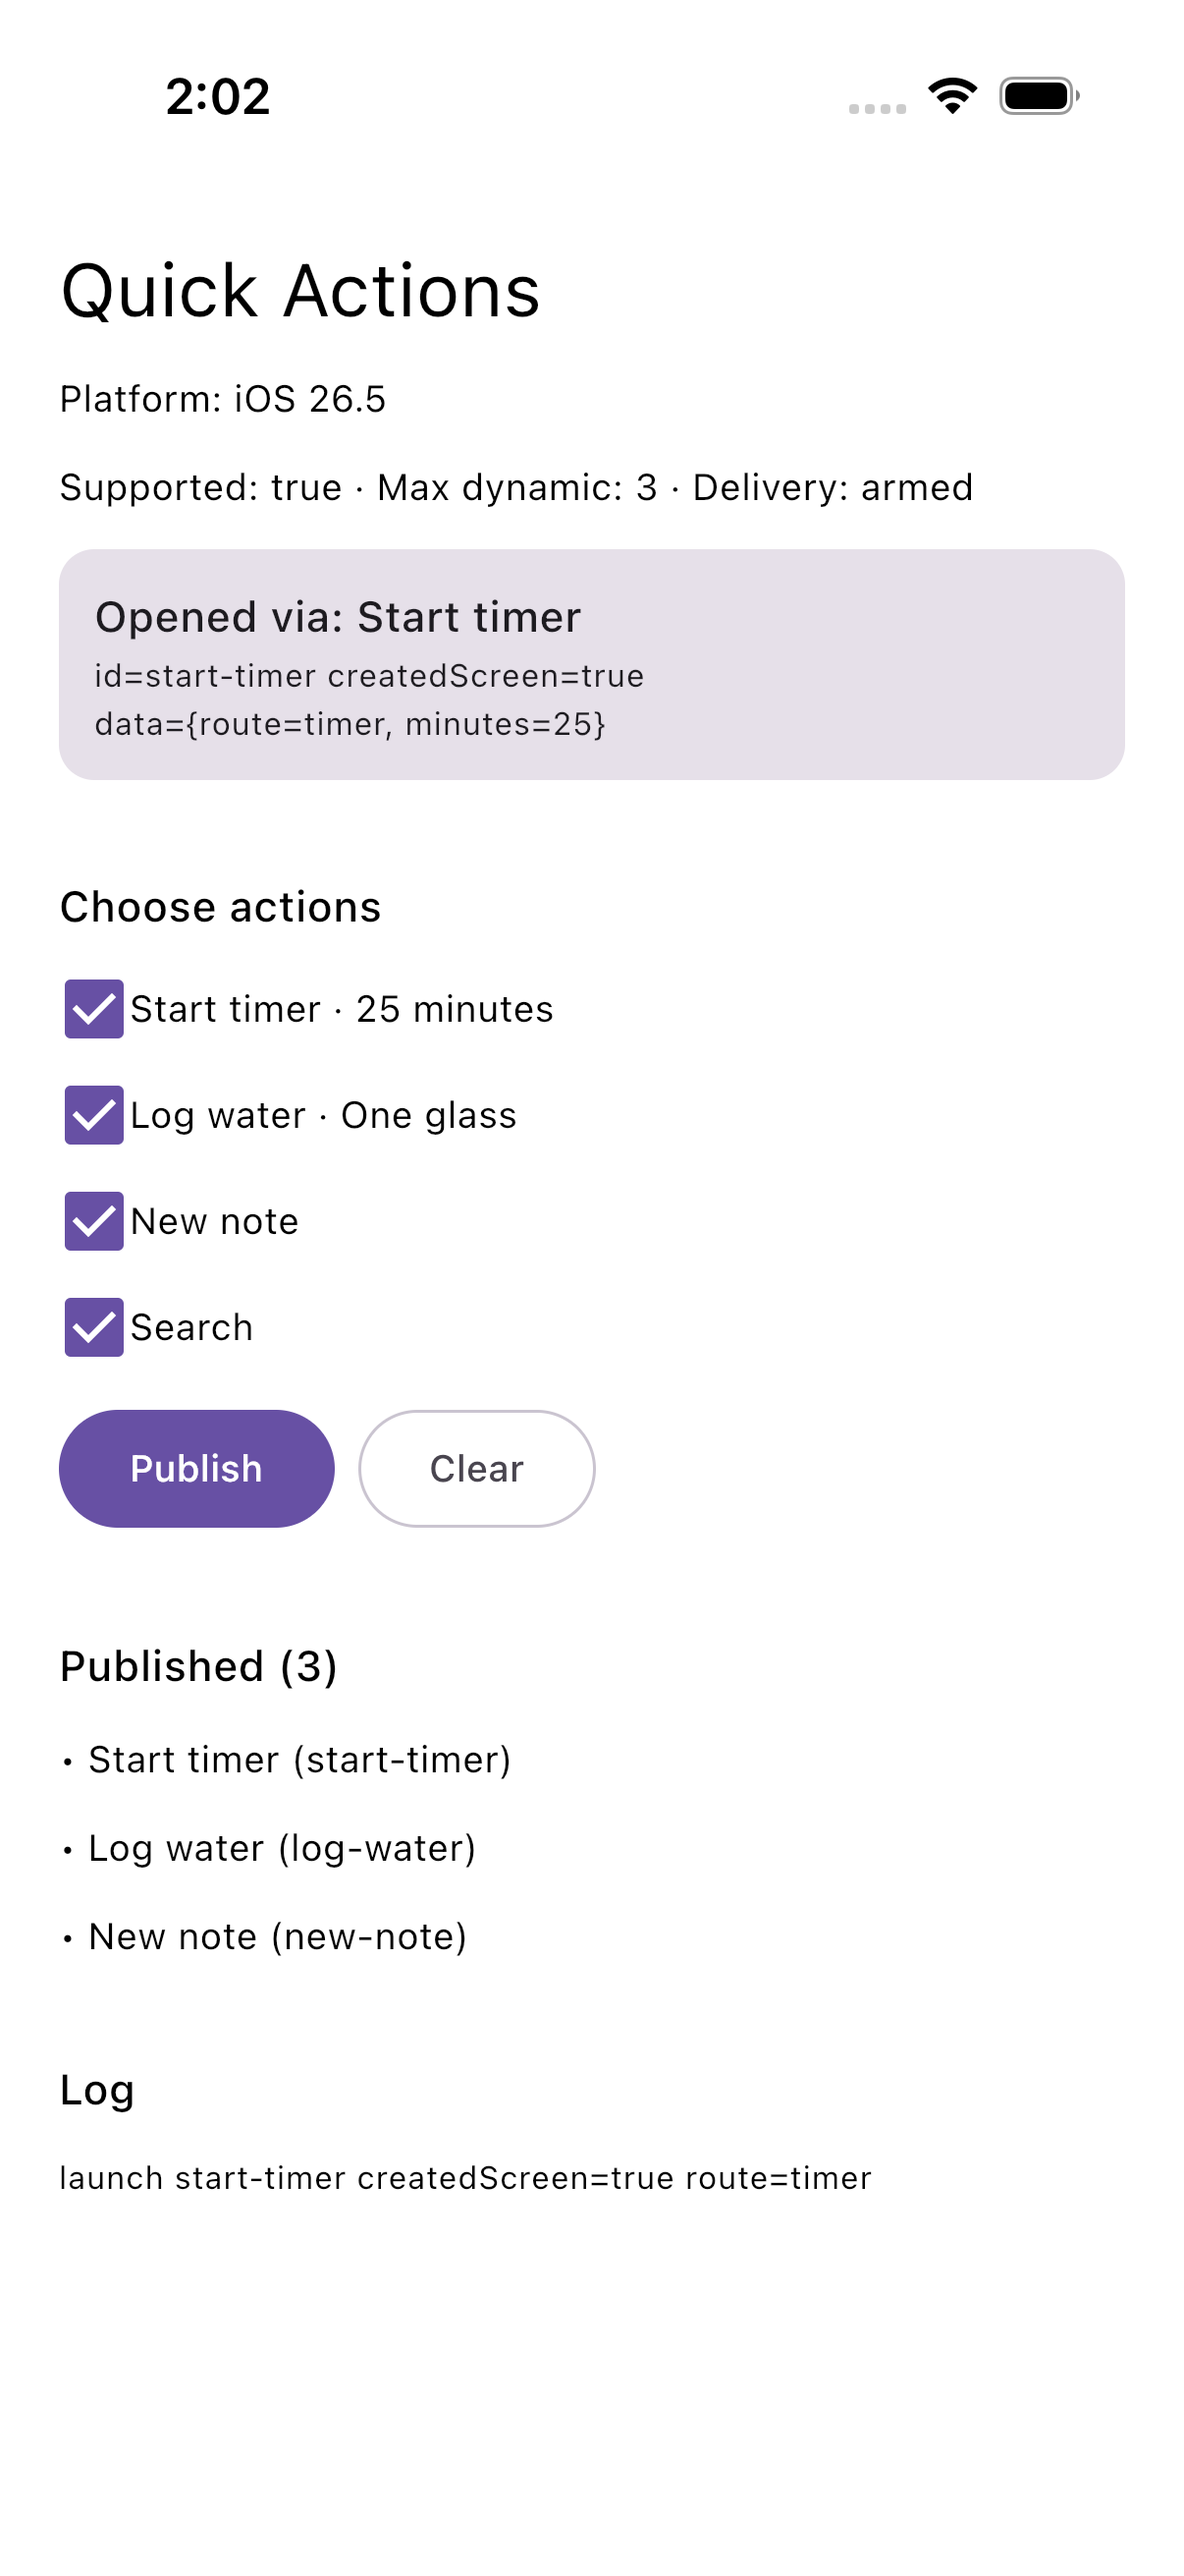
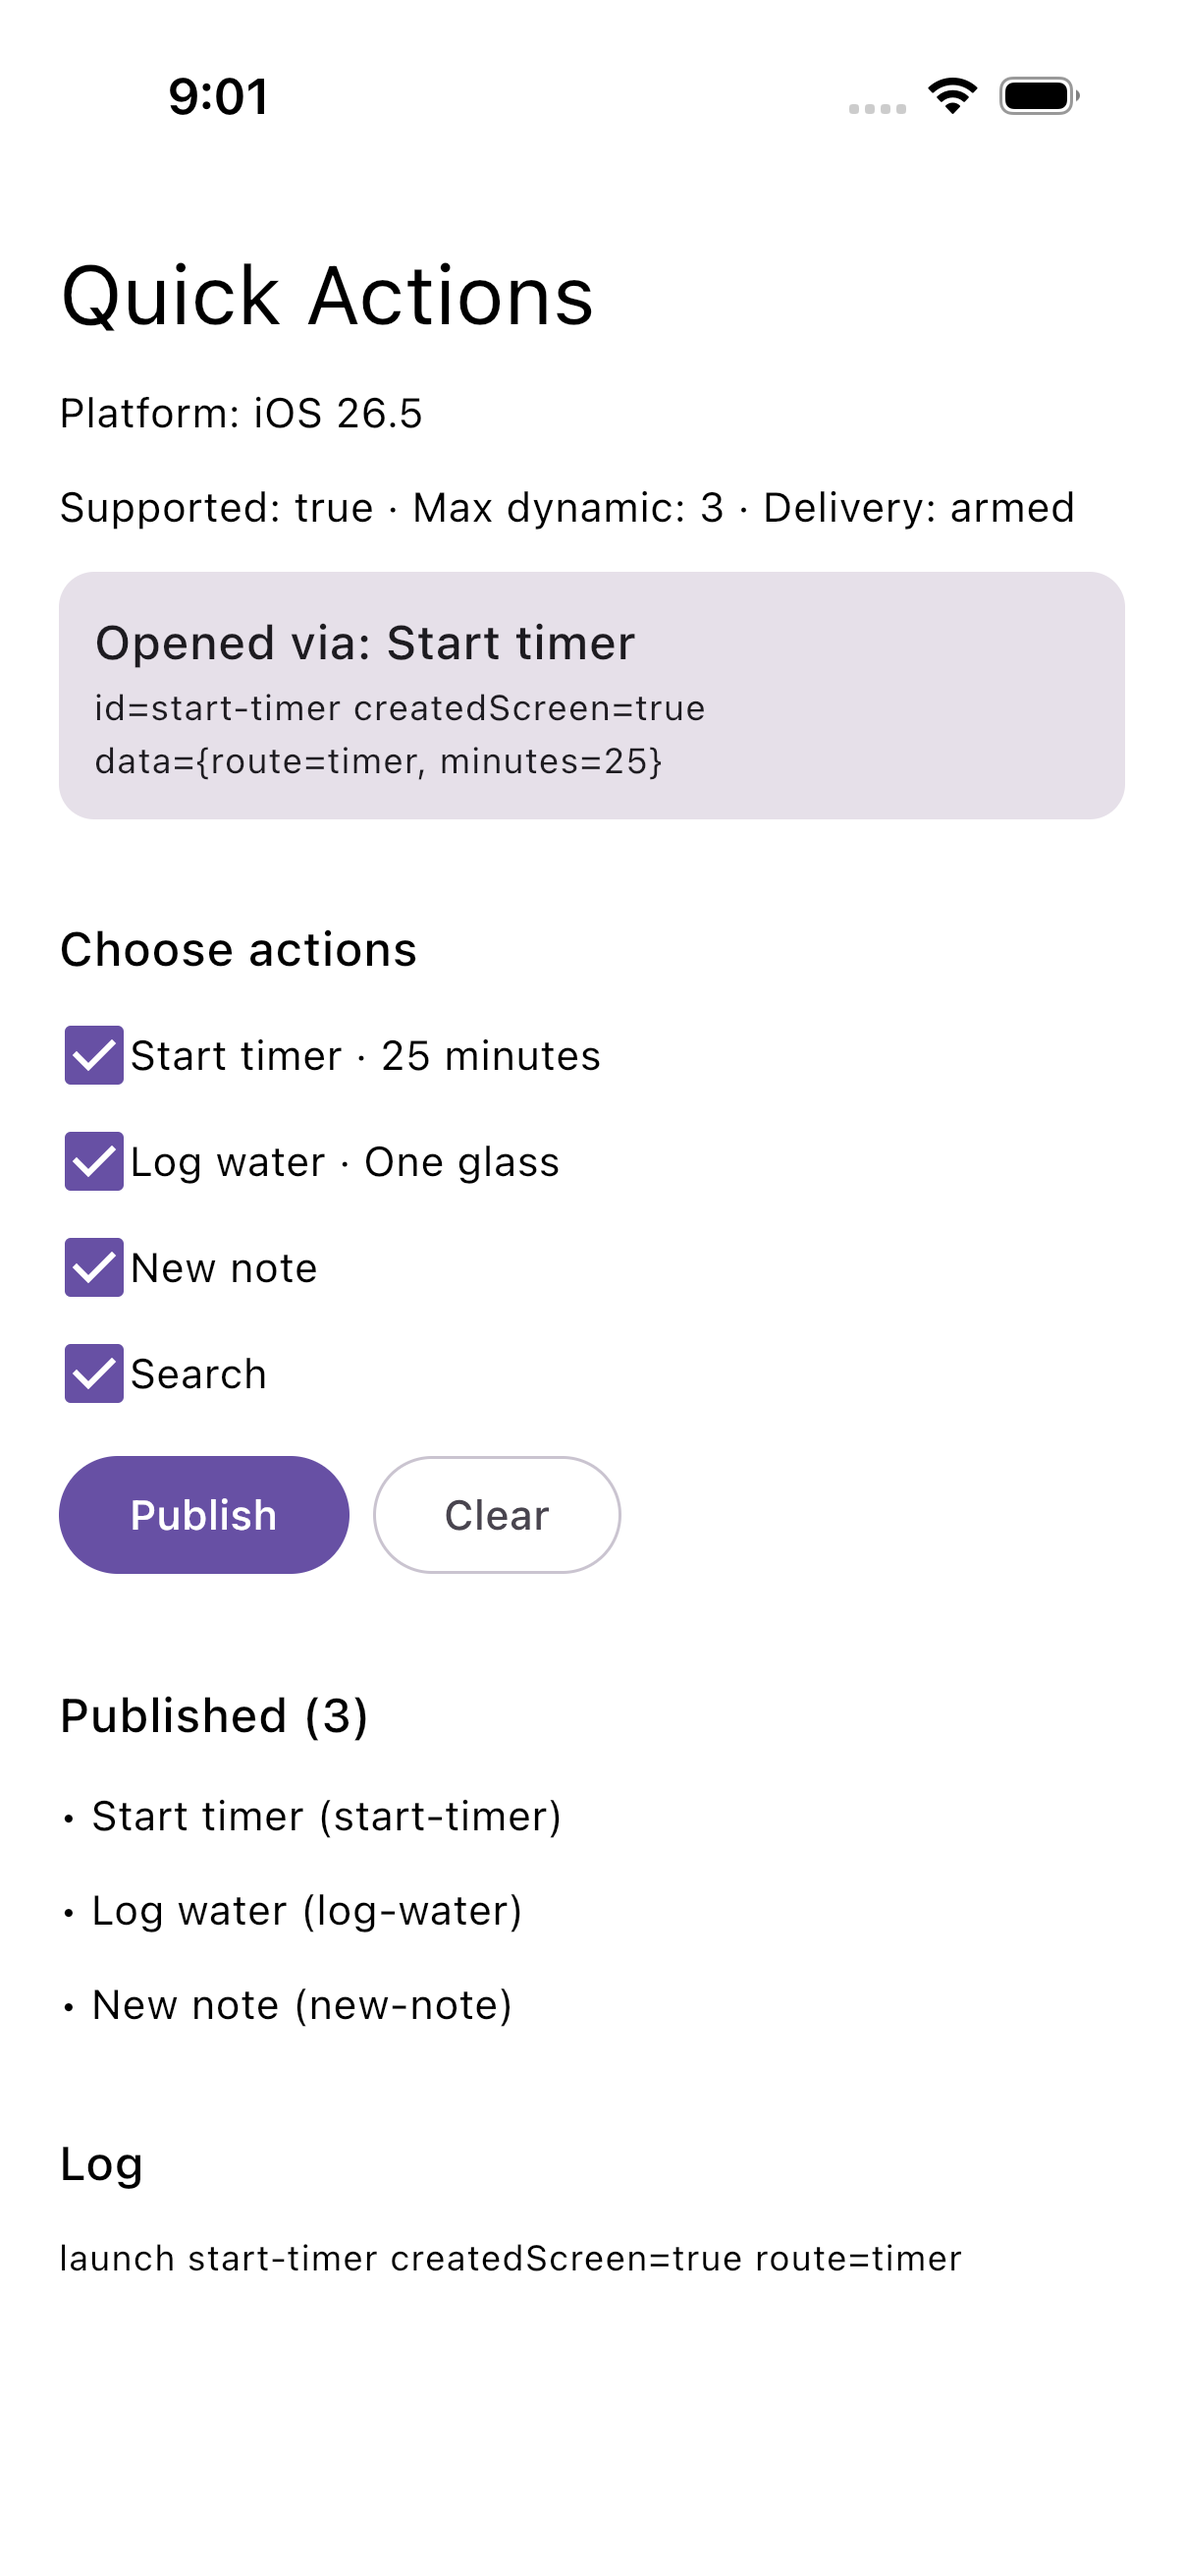
Retake the README screenshots on fresh devices
Claude-Session: https://claude.ai/code/session_01GfrLBiRBUAfXXnZtQHBLP6

diff --git a/README.md b/README.md
@@ -35,7 +35,7 @@ comes back in the launch, on both platforms, whether the tap started the app or 
   <tr>
     <td><img src="art/ios-menu.png" alt="iOS quick action menu with a static item and three dynamic actions" width="200"/></td>
     <td><img src="art/ios-launch.png" alt="Sample app on iOS showing the action that opened it after a cold start" width="200"/></td>
-    <td><img src="art/android-menu.png" alt="Android app drawer shortcut menu with a static item and three dynamic actions" width="200"/></td>
+    <td><img src="art/android-menu.png" alt="Android launcher shortcut menu with a static item and three dynamic actions" width="200"/></td>
     <td><img src="art/android-launch.png" alt="Sample app on Android showing the action that opened it after a cold start" width="200"/></td>
   </tr>
 </table>
